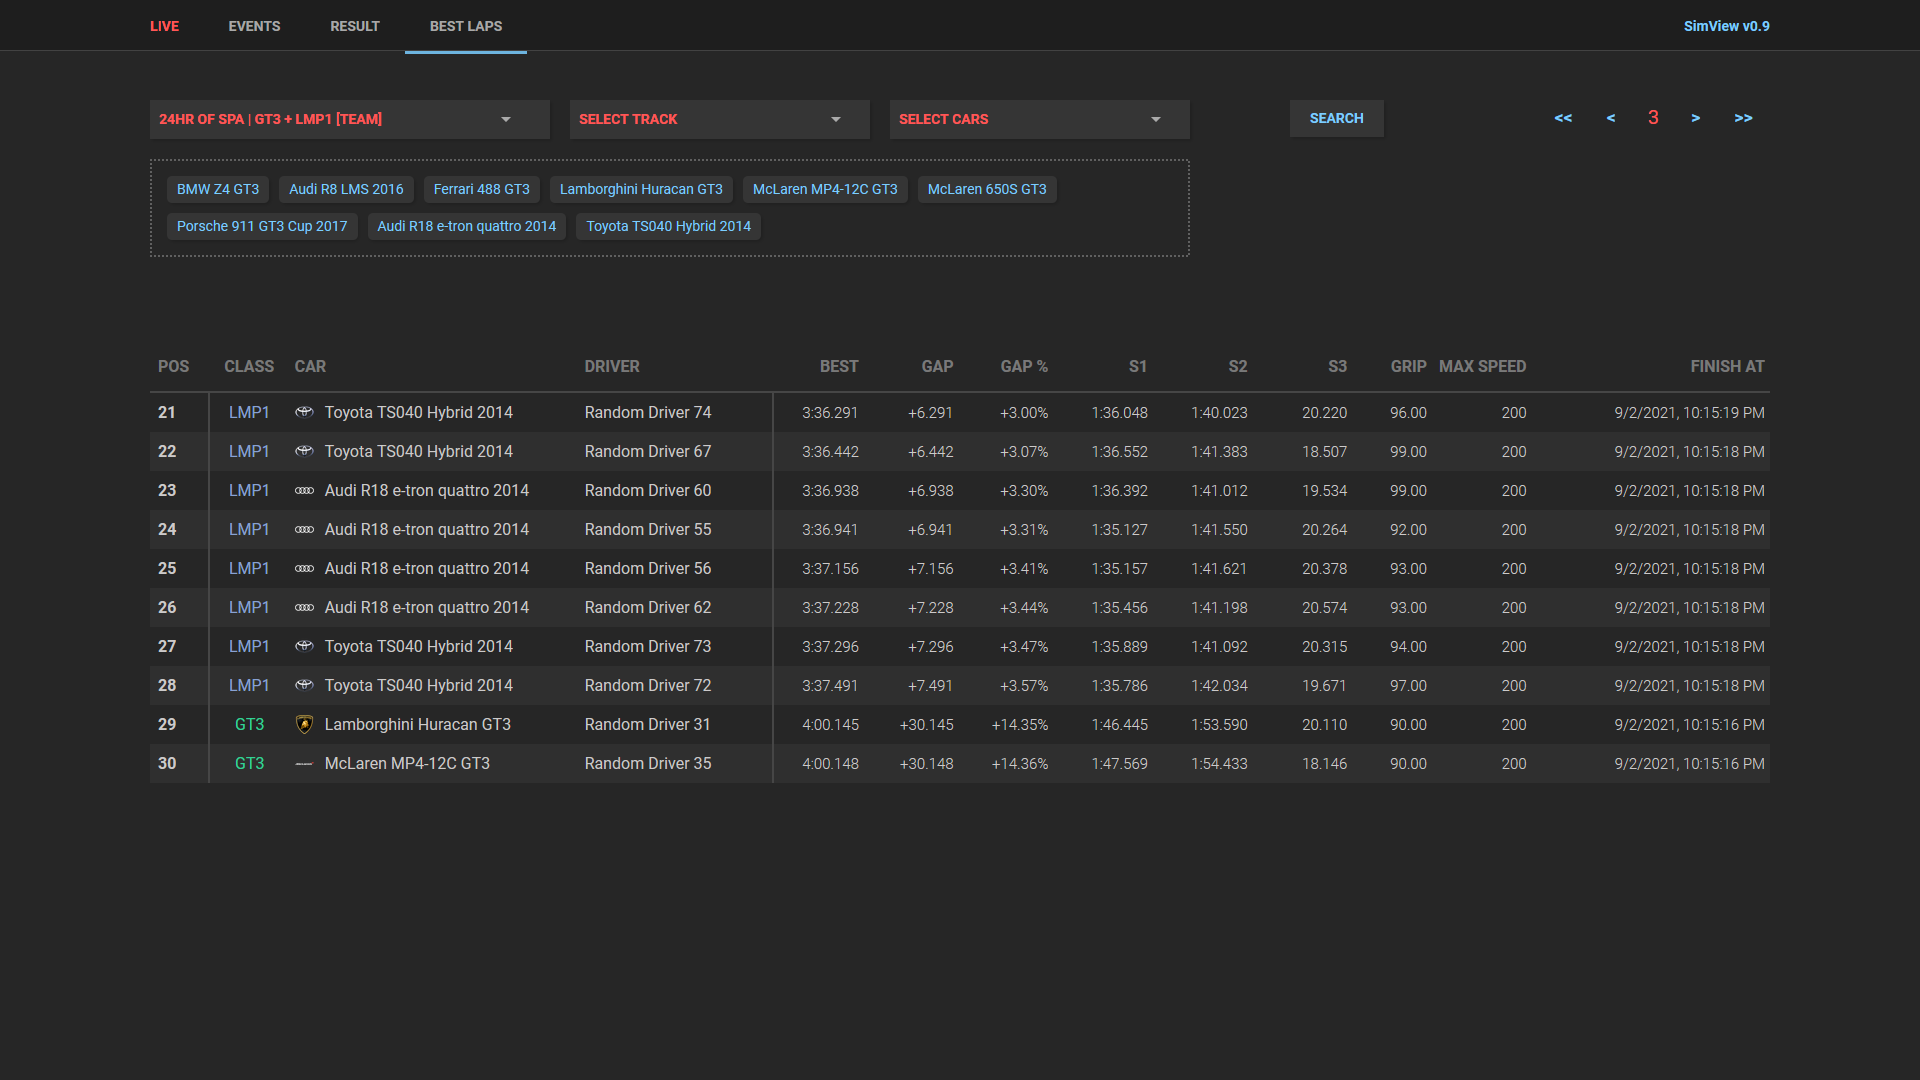
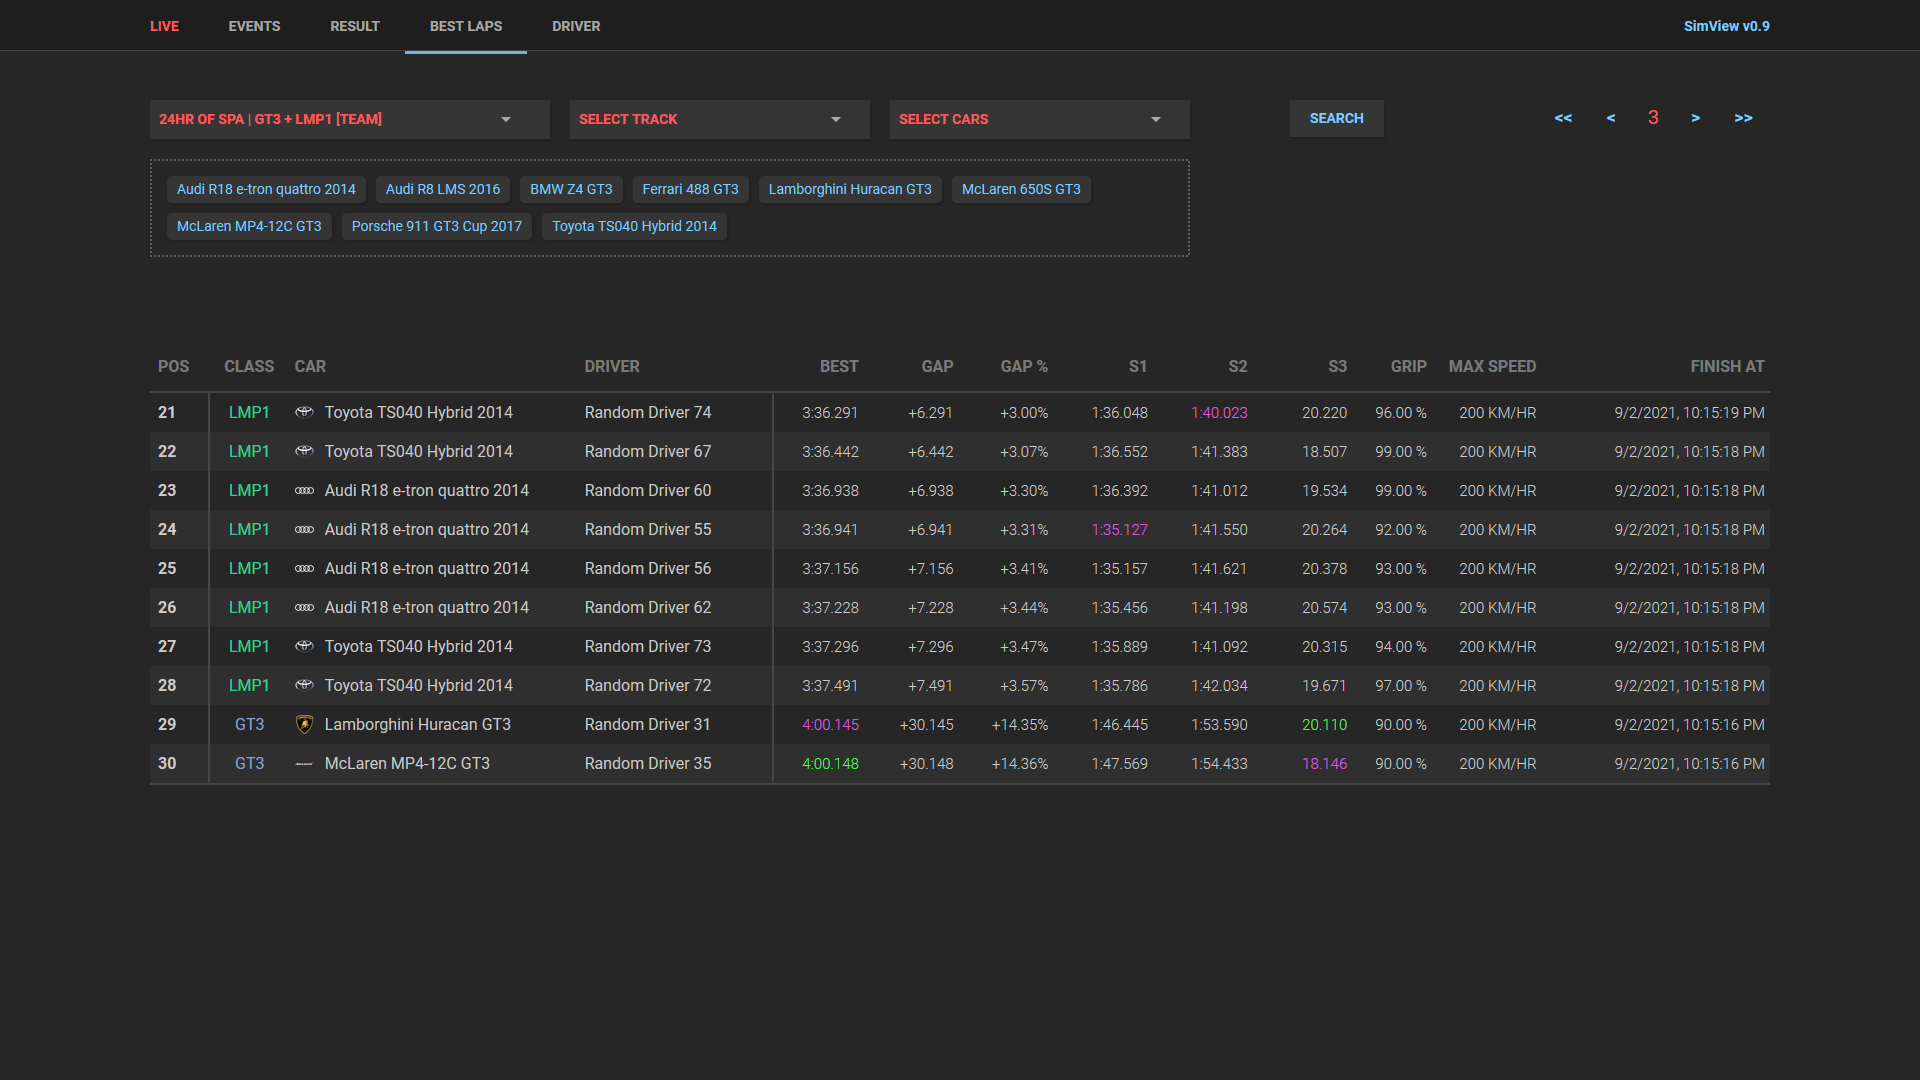
Add best lap,sector color highlight

diff --git a/js/main.js b/js/main.js
@@ -1874,7 +1874,8 @@ class BestlapPage extends Page {
 }
 
 class BestLapEntry {
-  constructor(lapId, driverId, carId, bestLap, gap, gapPer, grip, avgSpeed, maxSpeed, finishedAt) {
+  constructor(lapId, driverId, carId, bestLap, gap, gapPer, grip, avgSpeed, maxSpeed,
+    carBest, classBest, sec1CarBest, sec1ClassBest, sec2CarBest, sec2ClassBest, sec3CarBest, sec3ClassBest, finishedAt) {
     this.lapId = lapId;
     this.driverId = driverId;
     this.carId = carId;
@@ -1884,13 +1885,32 @@ class BestLapEntry {
     this.grip = grip;
     this.avgSpeed = avgSpeed;
     this.maxSpeed = maxSpeed;
+    this.carBest = carBest;
+    this.classBest = classBest;
+    this.sec1CarBest = sec1CarBest;
+    this.sec2CarBest = sec2CarBest;
+    this.sec3CarBest = sec3CarBest;
+    this.sec1ClassBest = sec1ClassBest;
+    this.sec2ClassBest = sec2ClassBest;
+    this.sec3ClassBest = sec3ClassBest;
     this.finishedAt = (new Date(finishedAt / 1000)).toLocaleString();
   }
 
   static fromJSON(data) {
     var lap = new Lap(data["time"], data["sector_1"], data["sector_2"], data["sector_3"]);
     return new BestLapEntry(data["lap_id"], data["user_id"], data["car_id"], lap, data["gap"],
-      data["gap_per"], data["grip"], data["avg_speed"], data["max_speed"], data["finished_at"]);
+      data["gap_per"], data["grip"], data["avg_speed"], data["max_speed"], data["car_best"], data["class_best"],
+      data["sector_1_car_best"], data["sector_1_class_best"], data["sector_2_car_best"], data["sector_2_class_best"],
+      data["sector_3_car_best"], data["sector_3_class_best"], data["finished_at"]);
+  }
+
+  getLapStatus(classBest, carBest) {
+    if (classBest === 1) {
+      return "purple-sec";
+    } else if (carBest === 1) {
+      return "green-sec";
+    }
+    return "";
   }
 
   toHTML(pos) {
@@ -1902,14 +1922,14 @@ class BestLapEntry {
         ${BestlapPage.CARS_LIST[this.carId]["display_name"]}
       </td>
       <td class="lb-driver" data-driver-id="${this.driverId}"></td>
-      <td class="lb-best-lap">${Lap.convertMSToDisplayTimeString(this.bestLap.lapTime)}</td>
+      <td class="lb-best-lap ${this.getLapStatus(this.classBest, this.carBest)}">${Lap.convertMSToDisplayTimeString(this.bestLap.lapTime)}</td>
       <td class="lb-gap">${Lap.convertToGapDisplayString(this.gap)}</td>
       <td class="lb-gap">${Lap.convertToGapPercentDisplayString(this.gapPer)}</td>
-      <td class="lb-sec1">${Lap.convertMSToDisplayTimeString(this.bestLap.sec1)}</td>
-      <td class="lb-sec2">${Lap.convertMSToDisplayTimeString(this.bestLap.sec2)}</td>
-      <td class="lb-sec3">${Lap.convertMSToDisplayTimeString(this.bestLap.sec3)}</td>
-      <td class="lb-grip">${(this.grip * 100).toFixed(2)}</td>
-      <td class="lb-max">${this.maxSpeed}</td>
+      <td class="lb-sec1 ${this.getLapStatus(this.sec1ClassBest, this.sec1CarBest)}">${Lap.convertMSToDisplayTimeString(this.bestLap.sec1)}</td>
+      <td class="lb-sec2 ${this.getLapStatus(this.sec2ClassBest, this.sec2CarBest)}">${Lap.convertMSToDisplayTimeString(this.bestLap.sec2)}</td>
+      <td class="lb-sec3 ${this.getLapStatus(this.sec3ClassBest, this.sec3CarBest)}">${Lap.convertMSToDisplayTimeString(this.bestLap.sec3)}</td>
+      <td class="lb-grip">${(this.grip * 100).toFixed(2)} %</td>
+      <td class="lb-max">${this.maxSpeed} KM/HR</td>
       <td class="lb-finish-time">${this.finishedAt}</td>
     </tr>`;
   }

diff --git a/css/event.css b/css/event.css
@@ -348,7 +348,6 @@ main {
   font-size: 16px;
   padding-left: 5px;
   padding-right: 5px;
-  border-bottom: 2px solid #464646;
   padding-bottom: 15px;
 }
 
@@ -532,7 +531,7 @@ main {
 }
 
 .green-sec {
-  color: #2db52d !important;
+  color: #59f459 !important;
 }
 
 .status-green {
@@ -1471,13 +1470,13 @@ li a.red {
 
 .lb-hr-max,
 .lb-max {
-  width: 90px;
+  width: 100px;
   text-align: right;
 }
 
 .lb-hr-finish-time,
 .lb-finish-time {
-  width: 230px;
+  width: 220px;
   text-align: right;
 }
 
@@ -1488,6 +1487,12 @@ li a.red {
 #bestlaps-header .lb-hr-pos,
 #bestlaps-body .lb-pos {
   width: 45px;
+}
+
+#board-body,
+#bestlaps-body {
+  border-top: 2px solid #464646;
+  border-bottom: 2px solid #464646;
 }
 
 .lb-grip,
